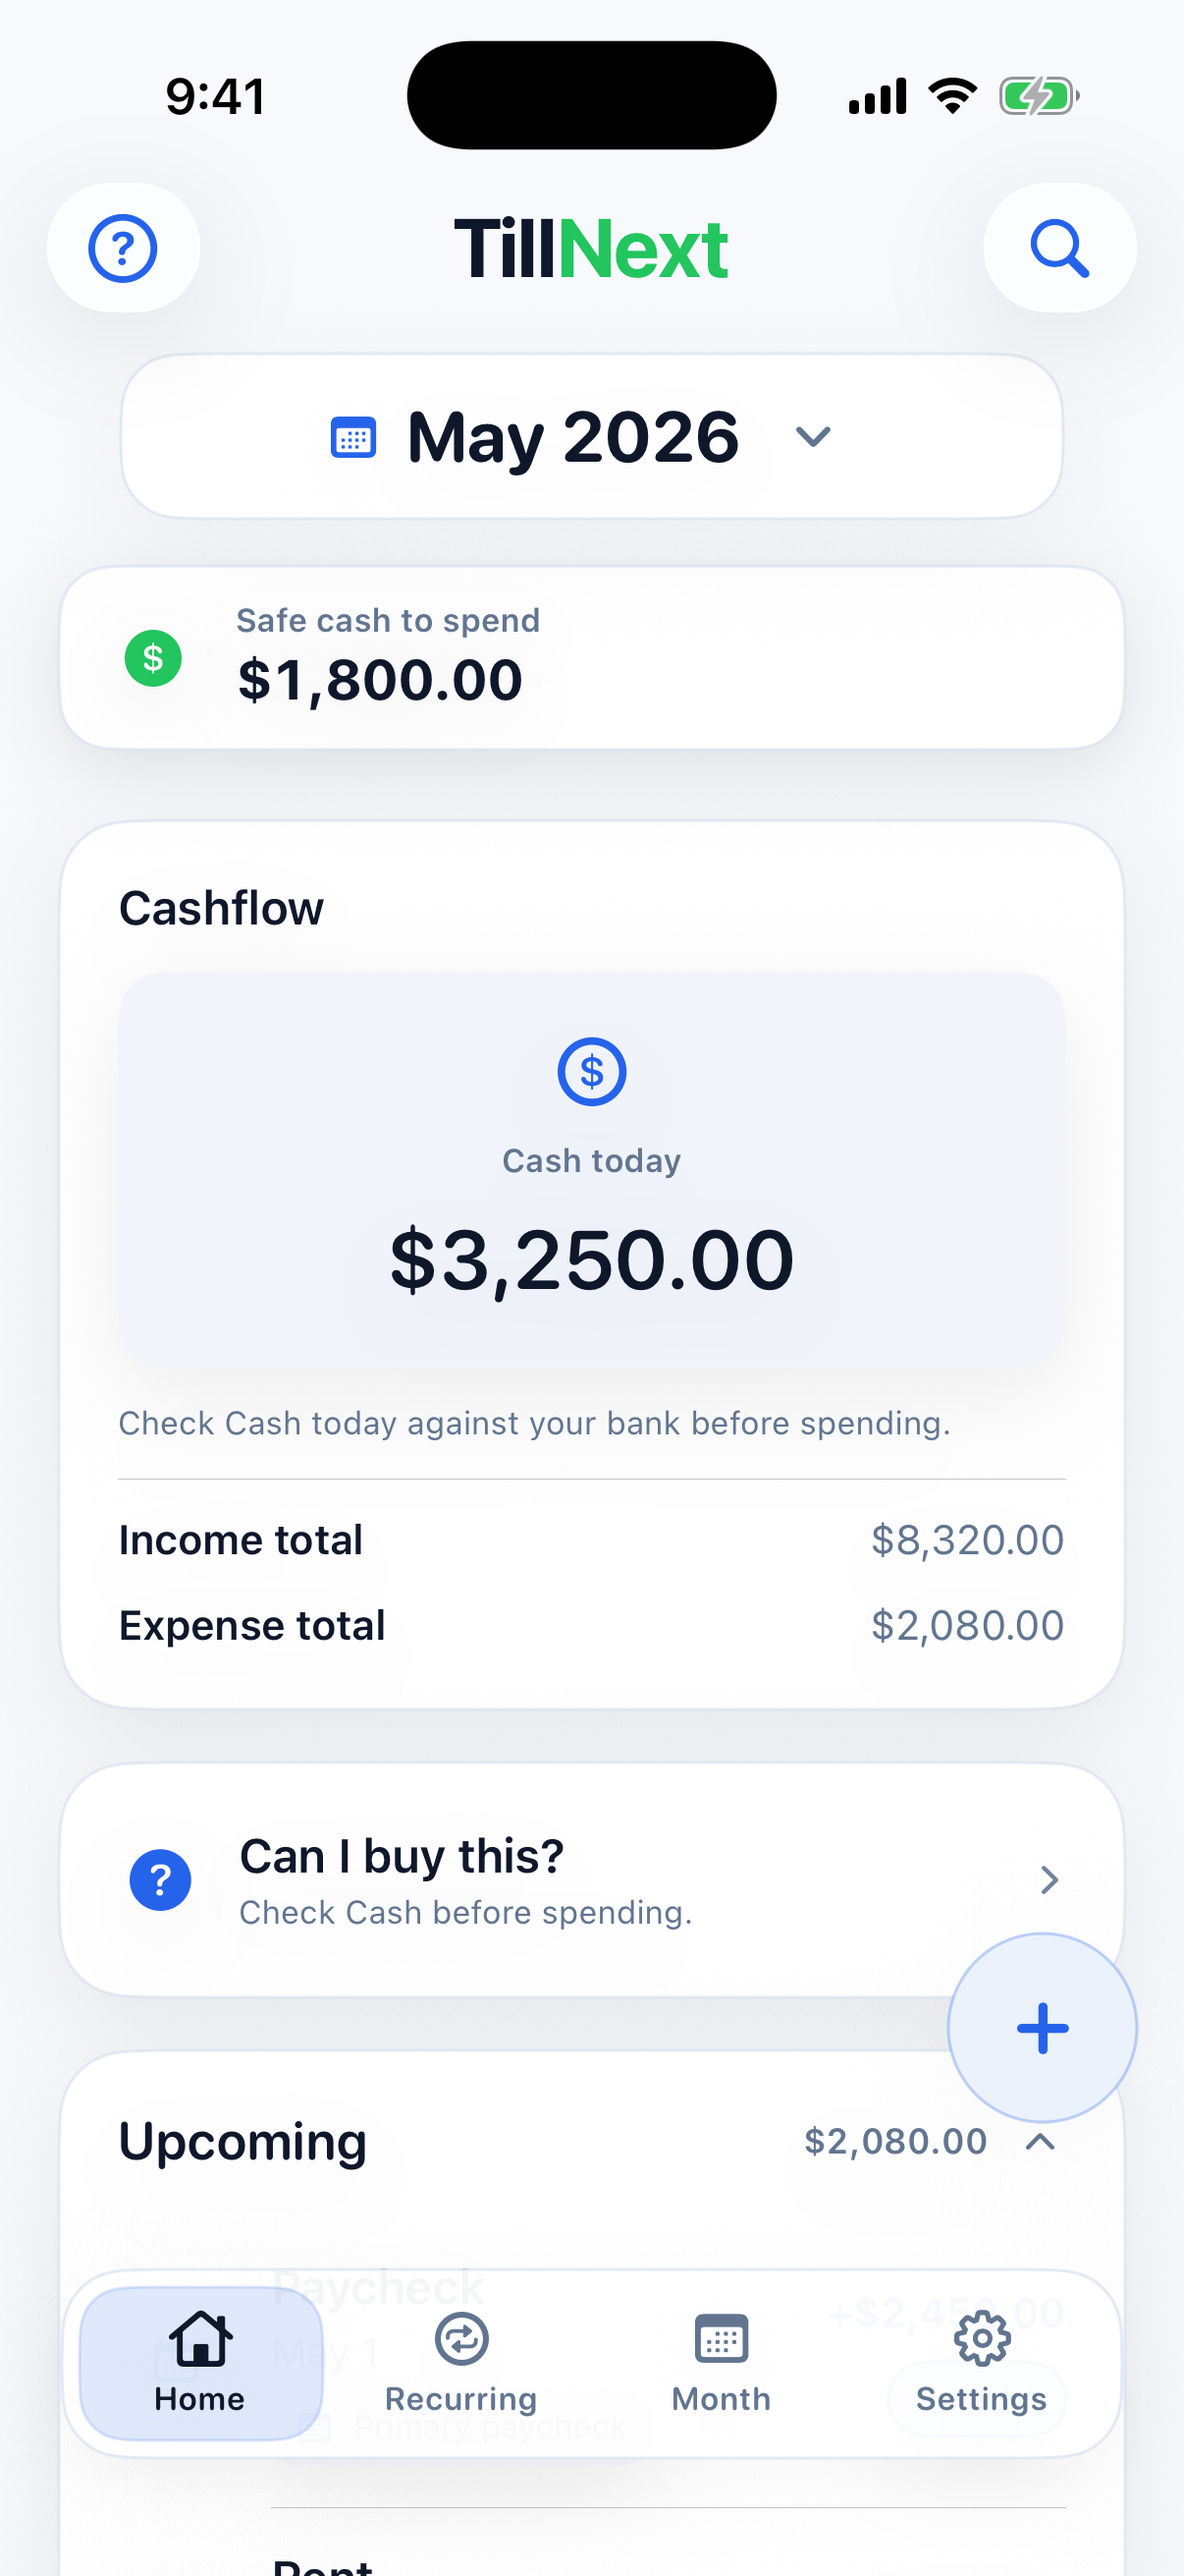
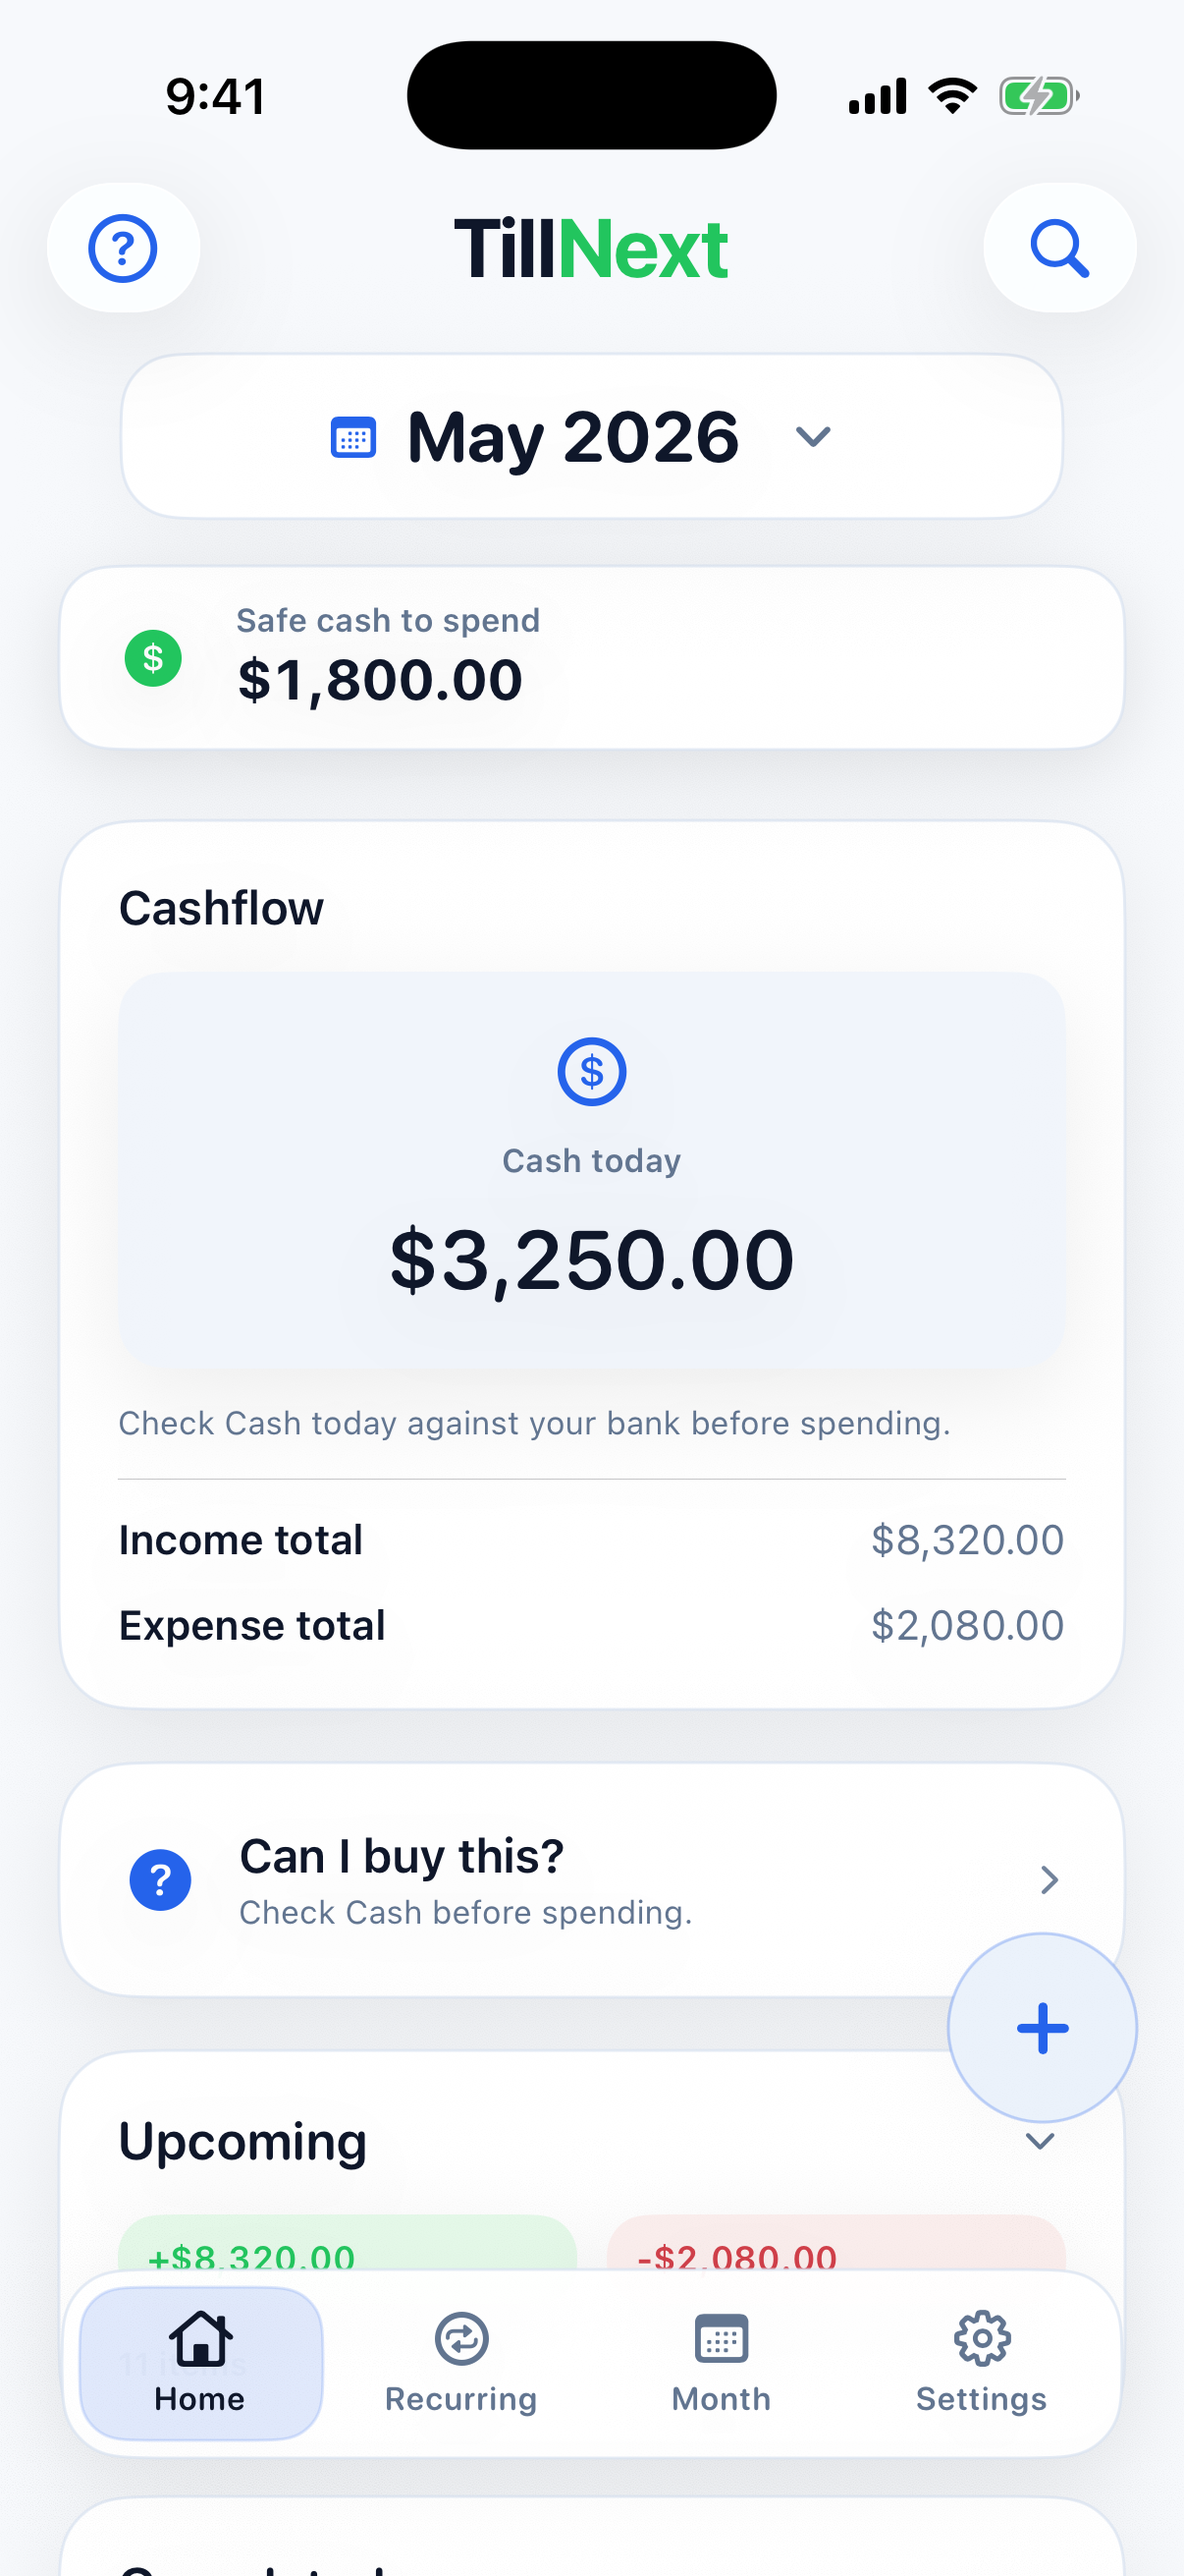
Update build 315 changelog and screenshots

diff --git a/changelog/index.html b/changelog/index.html
@@ -5,7 +5,7 @@
     <meta name="viewport" content="width=device-width, initial-scale=1">
     <title>TillNext: Paycheck Planner Changelog</title>
     <meta name="description" content="Public changelog for TillNext: Paycheck Planner.">
-    <link rel="stylesheet" href="../styles.css?v=20260513-build314">
+    <link rel="stylesheet" href="../styles.css?v=20260513-build315">
   </head>
   <body>
     <main>
@@ -23,6 +23,9 @@
       <p><strong>Updated:</strong> May 13, 2026</p>
       <h3>May 13, 2026</h3>
       <ul>
+        <li>Prepared build 315 for pre-launch testing.</li>
+        <li>Changed Home so Upcoming and Completed start closed, while still showing separate incoming and outgoing totals at a glance.</li>
+        <li>Tightened the Month calendar layout so the full week fits without horizontal scrolling.</li>
         <li>Prepared build 314 for pre-launch testing.</li>
         <li>Kept Sticky safe cash focused on Home so Recurring and Month stay clear while planning.</li>
         <li>Prepared build 313 for pre-launch testing.</li>
